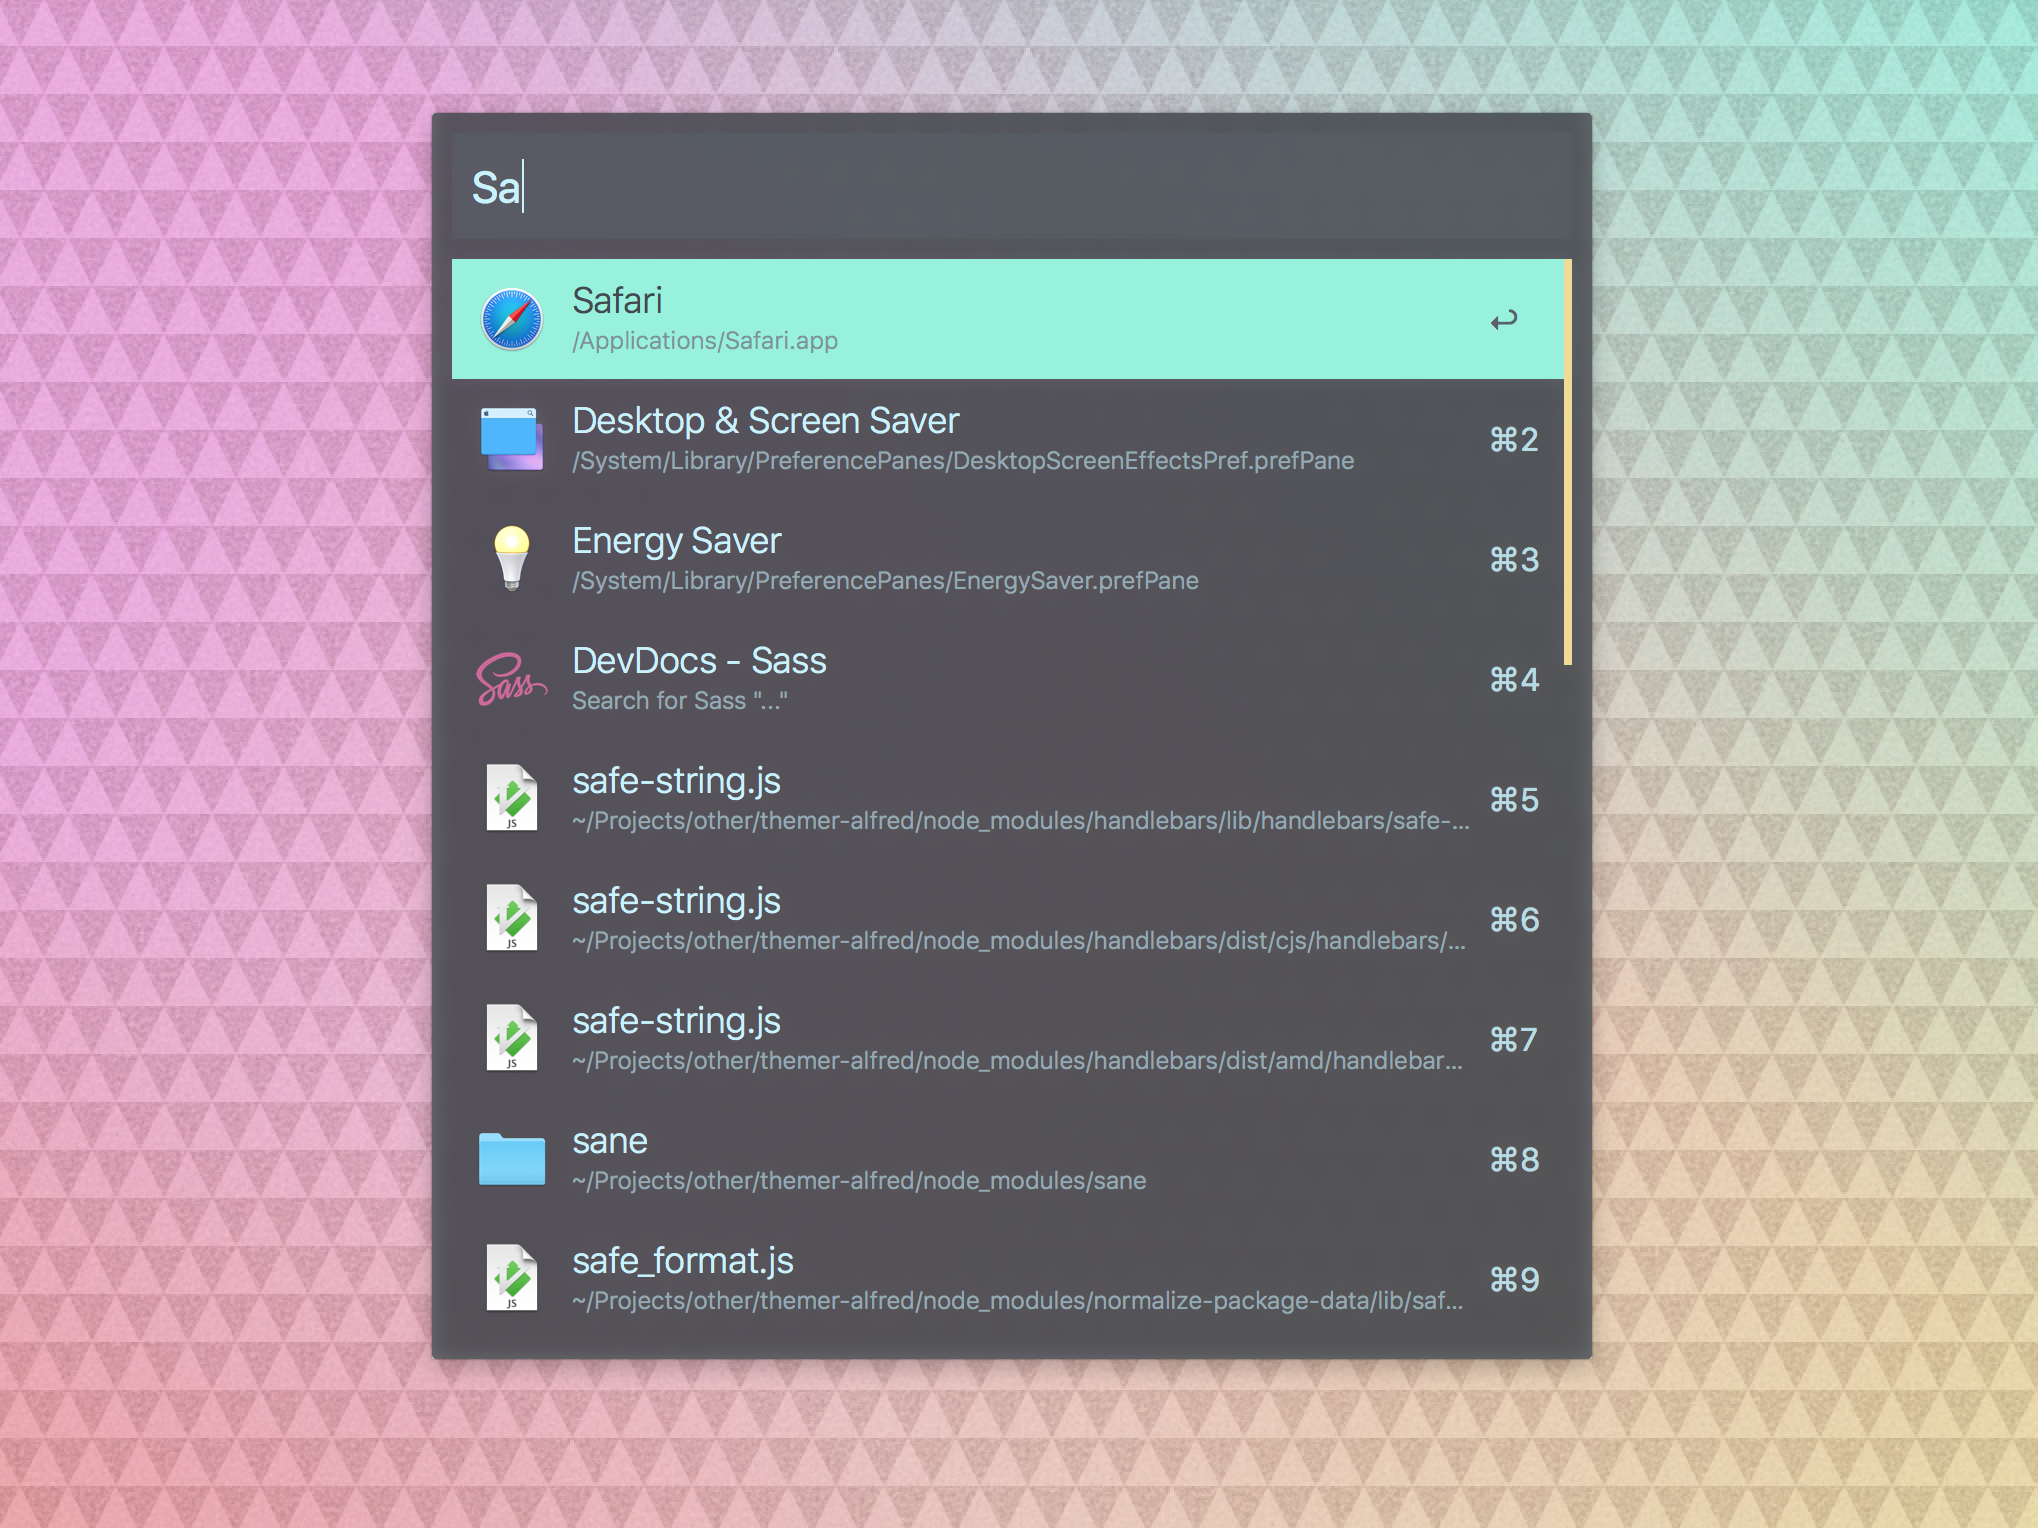
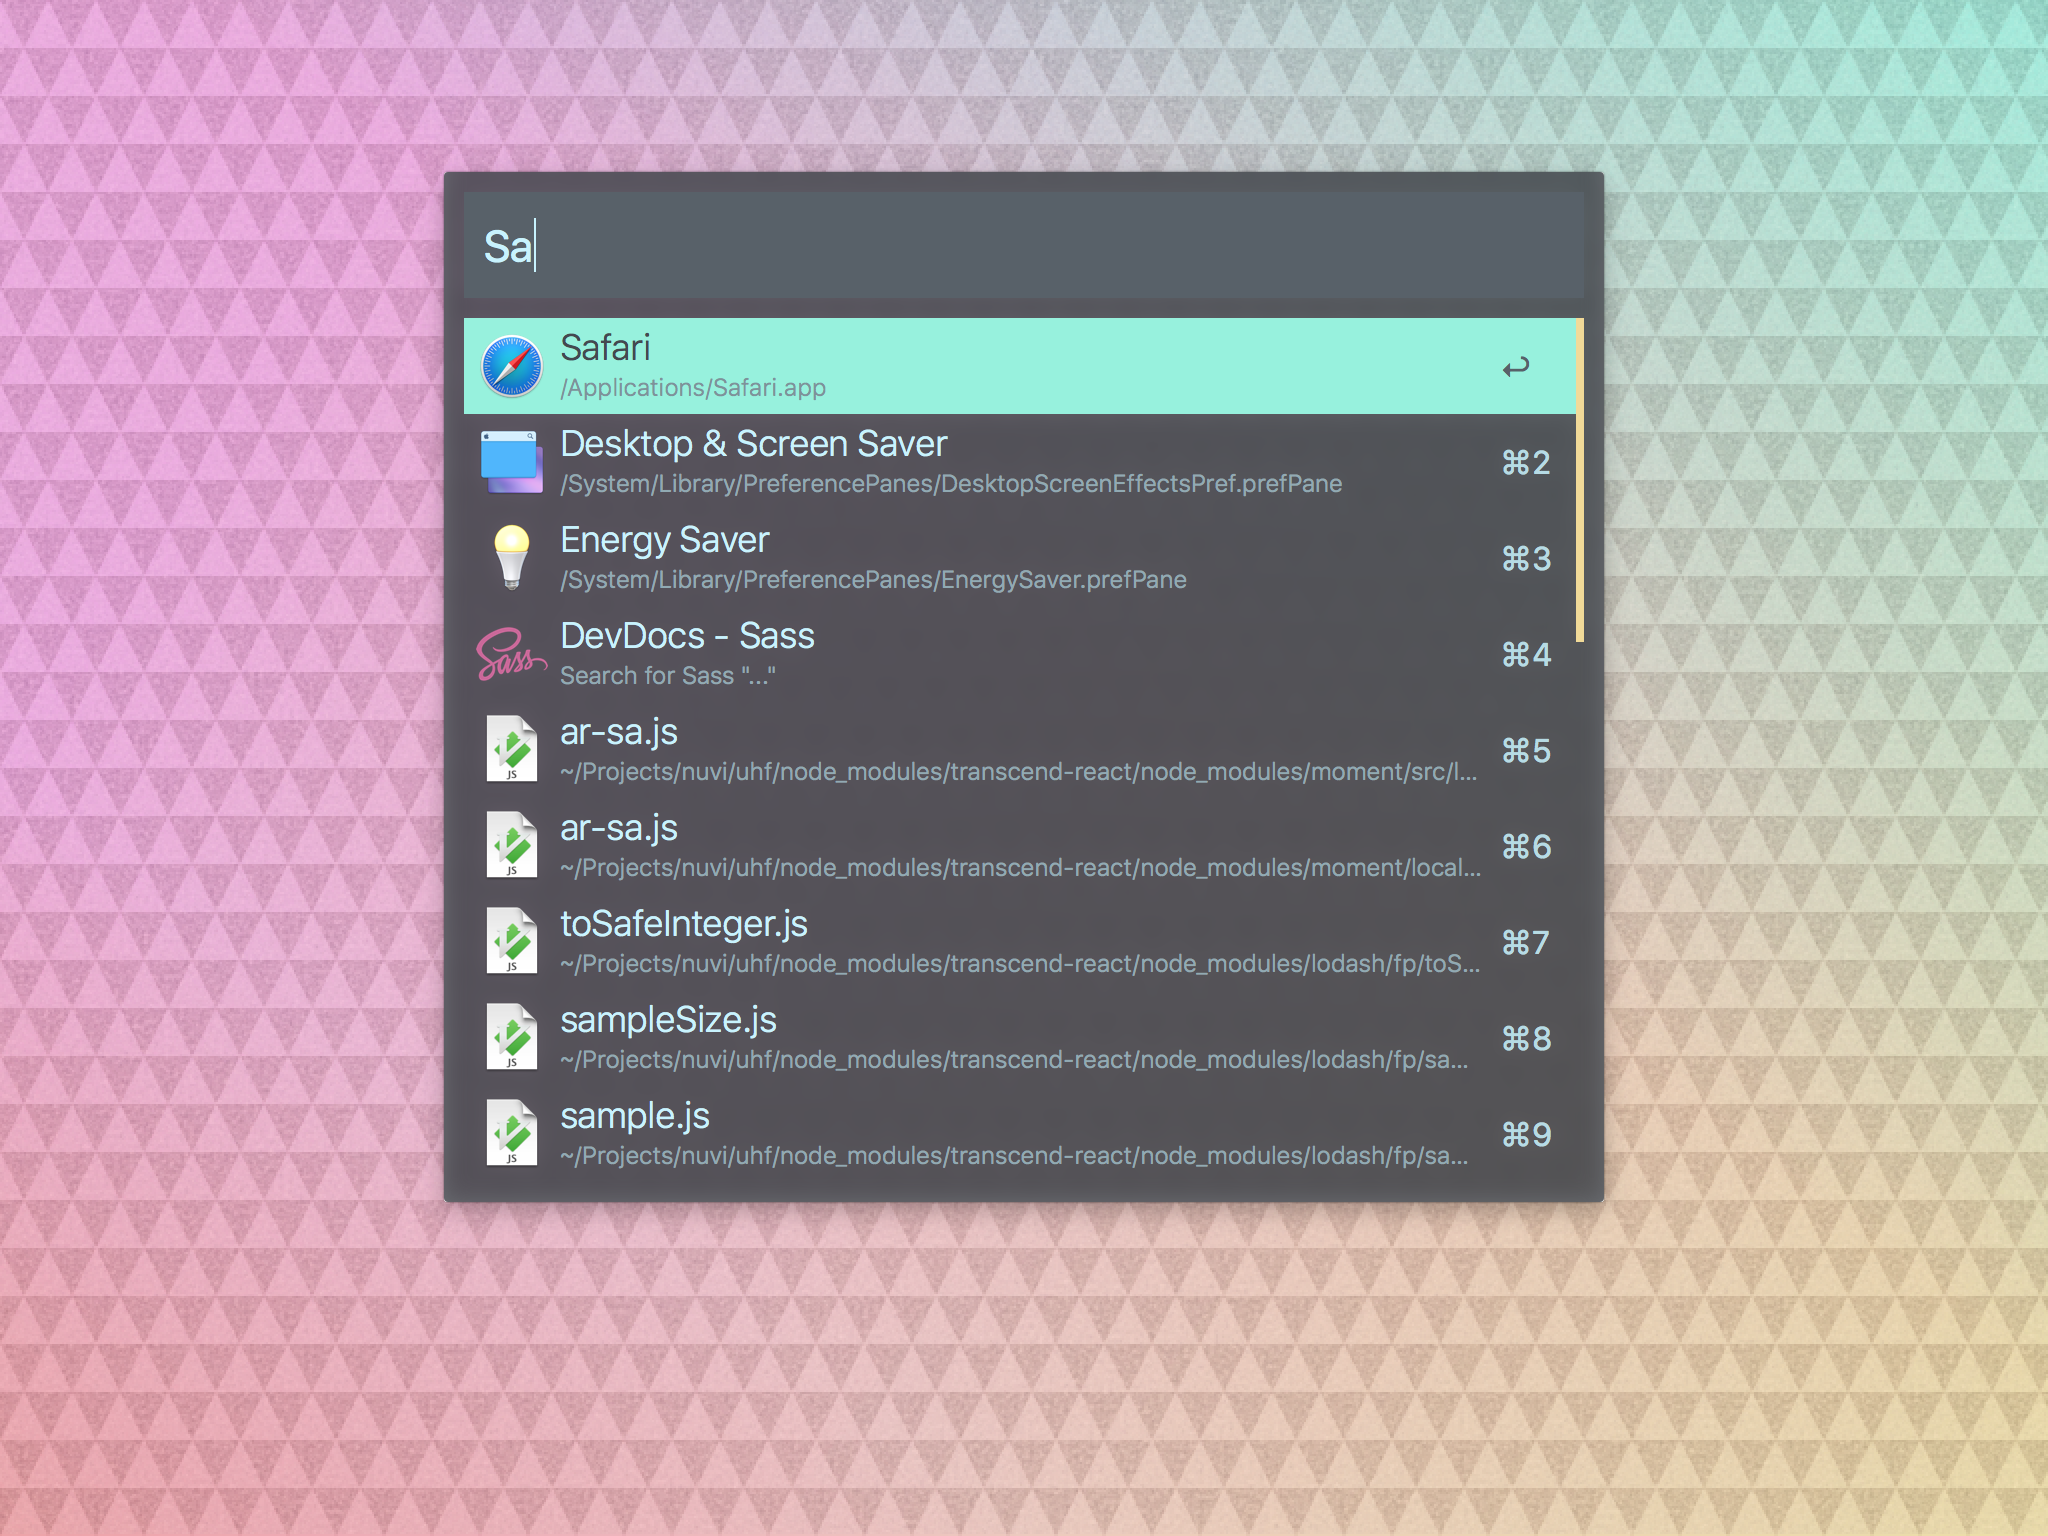
Tighter spacing.

diff --git a/index.js b/index.js
@@ -49,13 +49,13 @@ const render = (colors, options) => {
                   font: 'System Light',
                   color: `${shade7}FF`,
                 },
-                iconPaddingHorizontal: 12,
-                paddingVertical: 12,
+                iconPaddingHorizontal: 6,
+                paddingVertical: 6,
                 iconSize: 36,
               },
               search: {
                 paddingVertical: 8,
-                background: `${shade1}7F`,
+                background: `${shade1}FF`,
                 spacing: 10,
                 text: {
                   size: 22,
